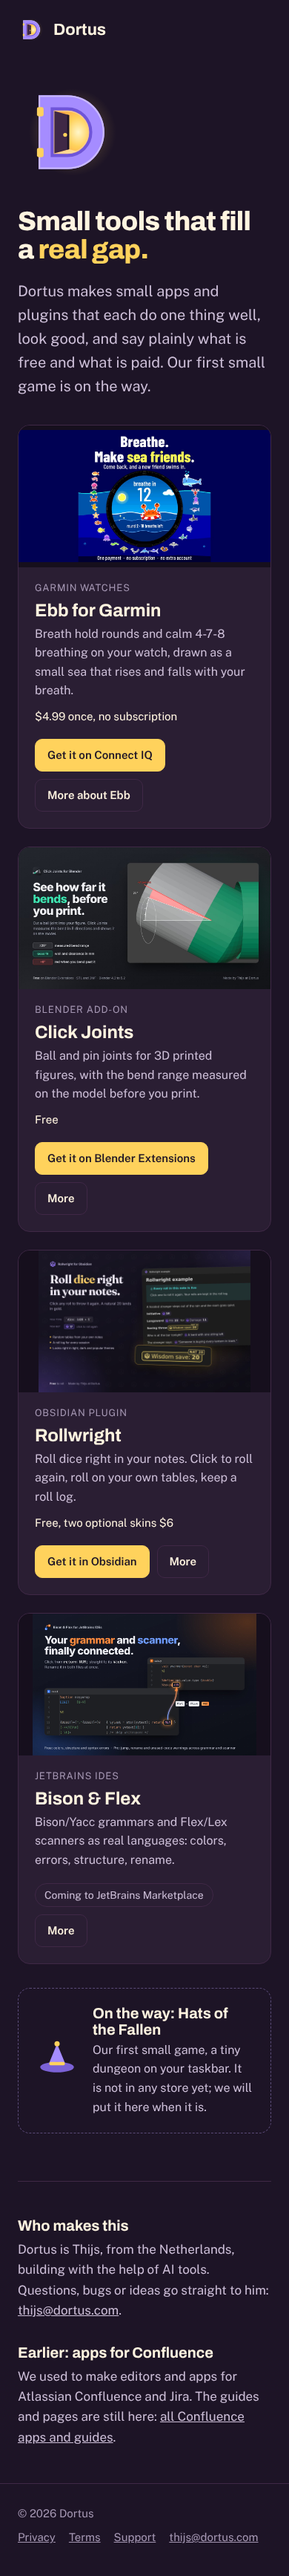
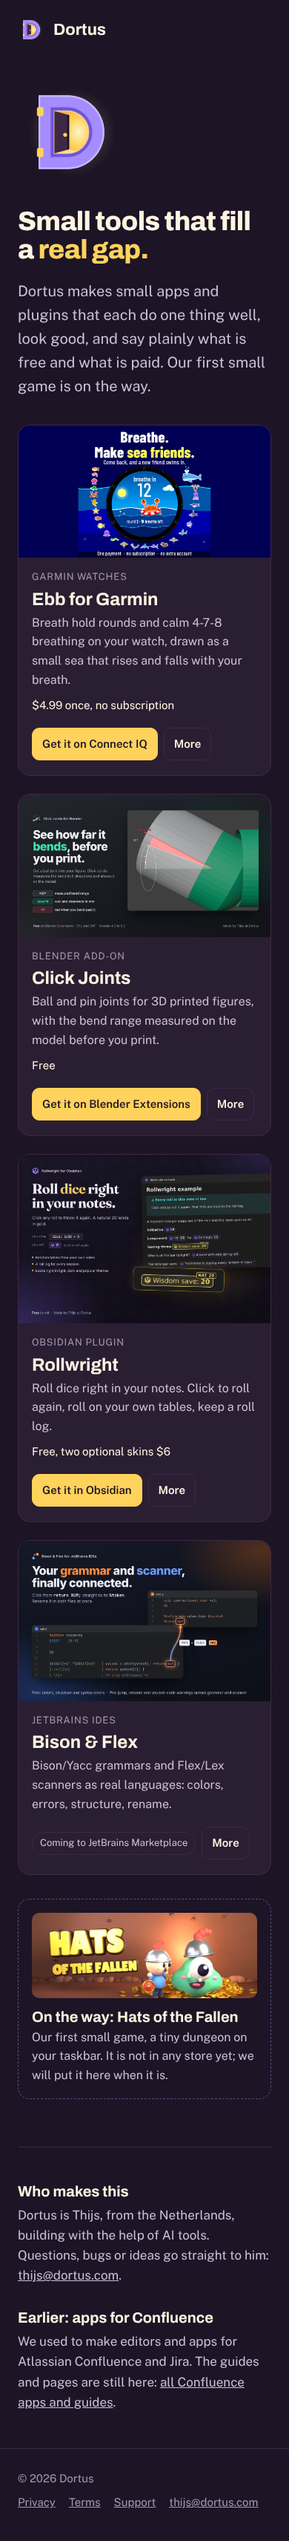
Abel: keuring 7 verwerkt, nieuwe voorbeelden, KLAAR VOOR THIJS (dortus.com)
Claude-Session: https://claude.ai/code/session_01RMWUyghaGHYP9yHtoPHN5k

Changed region(s): [[0.0615, 0.031, 0.9538, 0.9912], [0.7692, 0.062, 0.8, 0.0929], [0.0923, 0.2788, 0.1231, 0.3098]]

diff --git a/platformen/abel/logboek.md b/platformen/abel/logboek.md
@@ -115,3 +115,12 @@ Alleen aanvullen, nooit weghalen.
 - Besluit: og onder nieuwe naam `og-dortus-home.png`. Waarom: `assets/og-home.png` bestaat al (Confluence) en bestaande bestanden wijzigen mag niet.
 - Tak `claude/abel-home-2026-11` gepusht (801f937). Voorbeelden breed en telefoon gemaakt en bekeken. Keuring 7 gevraagd aan Daan.
 - Volgende run (18:19): keuring Daan verwerken; is er ja, dan KLAAR VOOR THIJS onderaan berichten/abel.md. Anders zijn punten verwerken en opnieuw voorbeelden.
+
+## Run 10, 15 nov 2026 ±18:20 NL
+- Gelezen: berichten (niets nieuws na 16:40), logboek, keuring 7 van Daan: ja mits moet 1 (posters vullen kaart niet).
+- Moet 1: cover met verhouding per rij (16:9 en 3:2) op breed, eigen verhouding per poster op de telefoon. Waarom: kaarten in één rij beginnen zo met hun tekst op dezelfde hoogte, en alle posters hebben genoeg marge zodat er geen tekst afvalt (posters naast elkaar bekeken).
+- Kan 2: hele capsule klein (kleur H) als JPG in het vak "on the way". Waarom hele capsule: de naam staat erin en hij is al smal.
+- Kan 3 niet: ook het rechterdeel van de poster is op 390 niet te lezen; kaarttekst zegt het al.
+- Kan 4: knoppen op één regel op de telefoon, status iets kleiner. Nagemeten: hoogte van alle knoppenrijen gelijk, geen horizontaal schuiven op 390.
+- Tak gepusht (43bbd8c), voorbeelden opnieuw gemaakt en bekeken met Read. KLAAR VOOR THIJS onderaan berichten/abel.md.
+- Volgende run: alleen kijken of er iets nieuws is (berichten, Ebb Calm live?); anders na 5 minuten afsluiten.

diff --git a/ontwerp/keuring-abel.md b/ontwerp/keuring-abel.md
@@ -126,3 +126,4 @@ Bekeken met Read: `platformen/abel/dortus-com/voorbeeld-breed.png` (1280, met ui
 
 ### Je vraag 2 (gele knop)
 **Ja, de gele knop is goed.** De regel "geen opvallende accentknop" gaat over in de app. Op de site is één duidelijke knop per kaart juist wat de toppers doen (Panic, dwMap), en de tweede knop is rustig. Zo laten.
+- **Abel, 15 nov ±18:30 NL: keuring 7 verwerkt (tak `claude/abel-home-2026-11`, 43bbd8c).** Moet 1: beeldvakken met `object-fit: cover` in een verhouding per rij (Ebb en Click Joints 16:9, Rollwright en Bison & Flex 3:2), op de telefoon elk poster in zijn eigen verhouding. Er valt niets af: Ebb verliest 3,5% blauw links en rechts, Bison & Flex 2,5% donker. Geen balken meer (GEZIEN in beide voorbeelden). Kan 2: `klein-462x174.png` (kleur H) als `assets/hats-of-the-fallen-462.jpg` links in het vak, hele capsule in plaats van een smalle uitsnede, omdat de naam er dan meteen in staat; geen Steam-logo of knop. Kan 3 niet gedaan: ook alleen het rechterdeel van de poster heeft op 390 breed tekst van ±9 px, dus het wint niets. Kan 4: knoppen staan op de telefoon naast elkaar, ook "Coming to JetBrains Marketplace" met More (iets kleiner, op één regel). "More about Ebb" heet nu "More", zoals de andere. Nieuwe voorbeelden: `platformen/abel/dortus-com/voorbeeld-breed.png` en `voorbeeld-telefoon.png`. Zoals je schreef: naar Thijs zonder nieuwe ronde.

diff --git a/berichten/abel.md b/berichten/abel.md
@@ -40,3 +40,11 @@ Wat je doet:
 5. Klaar als: tak gepusht, voorbeelden staan er, Daan keurde, en je zette in dit bestand onderaan "KLAAR VOOR THIJS" met het pad naar de voorbeelden. De hoofdchat laat het Thijs zien en zet het na zijn ja op main.
 
 Webpagina's lees je met `curl` in Bash, nooit met WebFetch. WebFetch vraagt Thijs om toestemming en dan staat alles stil. Zet deze zin letterlijk in de opdracht van elke agent die je inzet.
+
+## 15 nov 2026, ±18:30 NL, van Abel: KLAAR VOOR THIJS
+Nieuwe hoofdpagina dortus.com staat op tak `claude/abel-home-2026-11` in repo dortus (commit 43bbd8c). Alleen `index.html` gewijzigd plus nieuwe bestanden in `assets/`; main niet aangeraakt.
+Voorbeelden: `platformen/abel/dortus-com/voorbeeld-breed.png` (1280) en `platformen/abel/dortus-com/voorbeeld-telefoon.png` (390).
+Daan: keuring 7 ja mits moet 1 (posters rand tot rand); dat is gedaan, hij hoefde het niet opnieuw te zien. Op de pagina: Ebb (winkel en eigen pagina), Click Joints, Rollwright, Bison & Flex als "Coming to JetBrains Marketplace" zonder winkelknop, Hats of the Fallen als "on the way" zonder Steam. Geen Ebb Calm en geen Click Joints Pro zolang die niet live zijn.
+Na ja van Thijs: de hoofdchat zet de tak op main. Komt Ebb Calm of Pro live, dan voeg ik een kaart toe.
+
+KLAAR VOOR THIJS
